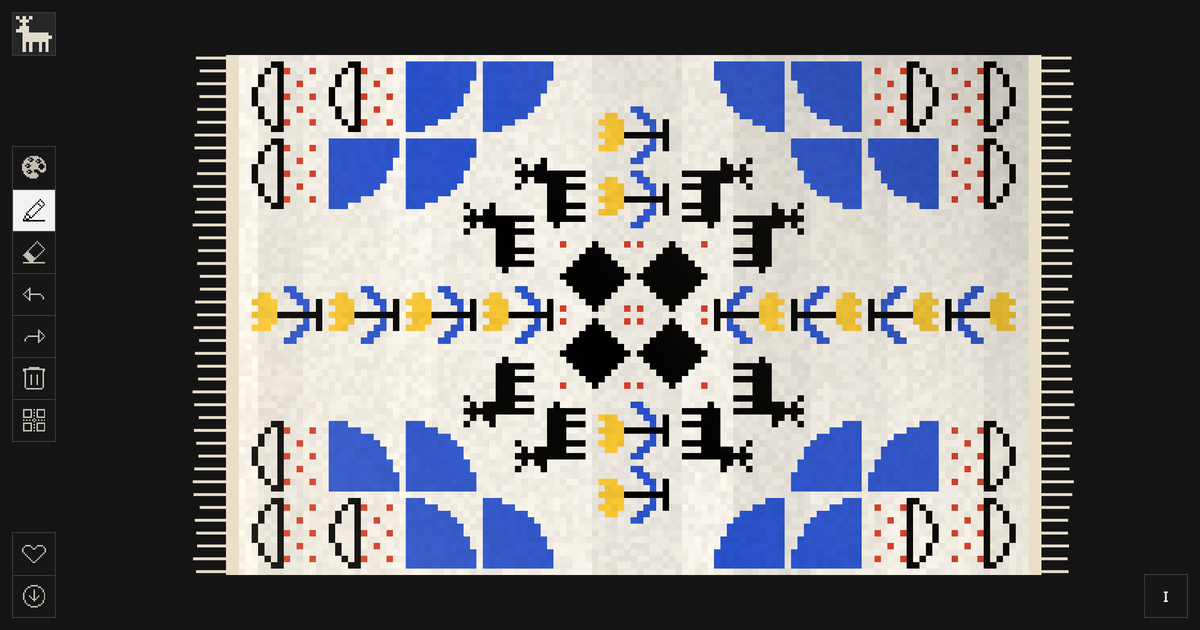
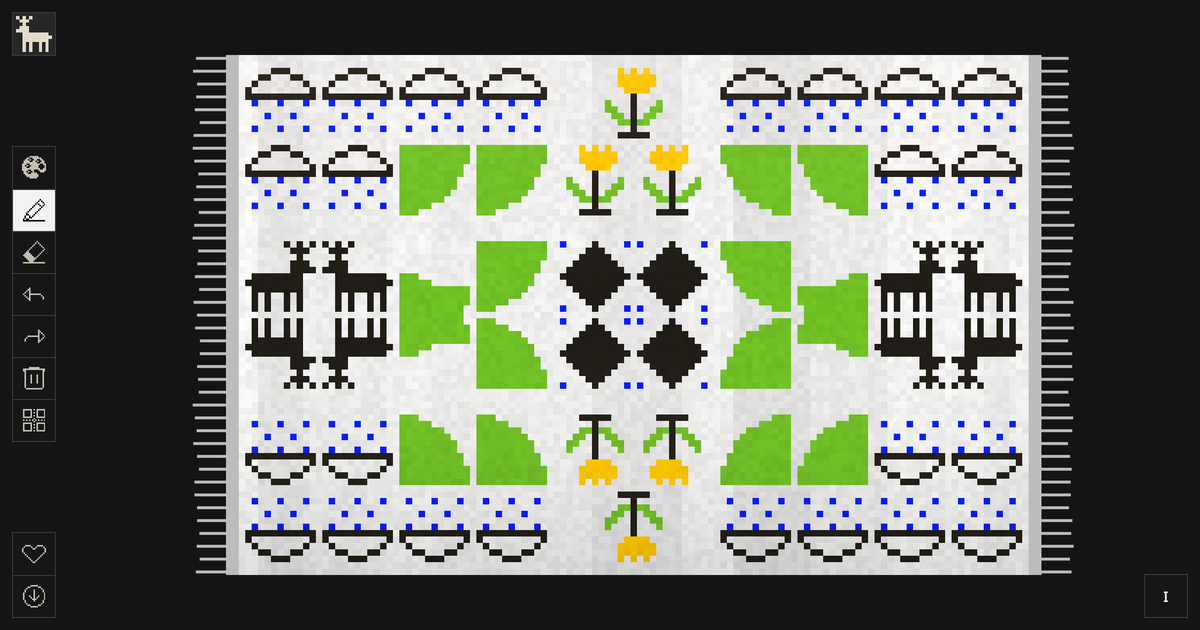
Add files via upload

diff --git a/style.css b/style.css
@@ -7,6 +7,8 @@
   --t-s: 14px;   /* small labels: swatch names, section captions, notes */
   --t-m: 16px;   /* body: panels, menus, tabs, info */
   --t-l: 19px;   /* button labels and headings */
+  --t-xl: 24px;  /* large: popup credit line */
+  --t-xxl: 30px; /* titles: popup heading */
   --bg: #121212;
   --panel: #161616;
   --line: #3a3a3a;
@@ -85,14 +87,43 @@ body { margin: 0; background: var(--bg); color: var(--fg); font-family: var(--mo
 .grp #bXform { display: none; }
 @media (hover: none), (pointer: coarse), (max-width: 700px) { .grp #bXform { display: grid; } }
 #railLib canvas { width: 100%; height: 100%; display: block; image-rendering: pixelated; }
+/* ---------- info: a stepped pixel panel centred on the carpet ---------- */
+.infoShade { position: absolute; inset: 0; z-index: 29; background: rgba(8, 8, 8, 0.62); }
+.infoShade[hidden] { display: none; }
+.info { position: absolute; z-index: 30; top: 50%; left: calc(var(--rail) + (100% - var(--rail)) / 2); transform: translate(-50%, -50%);
+  width: min(960px, calc(100% - var(--rail) - 2 * var(--gap))); --s: calc(var(--rb) / 2); }
+.info[hidden] { display: none; }
+.infoBox { position: relative; isolation: isolate; background: var(--line); color: var(--fg); padding: calc(var(--s) + 10px) calc(2 * var(--s) + 12px); text-align: center; max-height: inherit; overflow: auto;
+  clip-path: polygon(0 calc(4 * var(--s)), var(--s) calc(4 * var(--s)), var(--s) calc(3 * var(--s)), calc(2 * var(--s)) calc(3 * var(--s)), calc(2 * var(--s)) calc(2 * var(--s)), calc(3 * var(--s)) calc(2 * var(--s)), calc(3 * var(--s)) var(--s), calc(4 * var(--s)) var(--s), calc(4 * var(--s)) 0, calc(100% - 4 * var(--s)) 0, calc(100% - 4 * var(--s)) var(--s), calc(100% - 3 * var(--s)) var(--s), calc(100% - 3 * var(--s)) calc(2 * var(--s)), calc(100% - 2 * var(--s)) calc(2 * var(--s)), calc(100% - 2 * var(--s)) calc(3 * var(--s)), calc(100% - var(--s)) calc(3 * var(--s)), calc(100% - var(--s)) calc(4 * var(--s)), 100% calc(4 * var(--s)), 100% calc(100% - 4 * var(--s)), calc(100% - var(--s)) calc(100% - 4 * var(--s)), calc(100% - var(--s)) calc(100% - 3 * var(--s)), calc(100% - 2 * var(--s)) calc(100% - 3 * var(--s)), calc(100% - 2 * var(--s)) calc(100% - 2 * var(--s)), calc(100% - 3 * var(--s)) calc(100% - 2 * var(--s)), calc(100% - 3 * var(--s)) calc(100% - var(--s)), calc(100% - 4 * var(--s)) calc(100% - var(--s)), calc(100% - 4 * var(--s)) 100%, calc(4 * var(--s)) 100%, calc(4 * var(--s)) calc(100% - var(--s)), calc(3 * var(--s)) calc(100% - var(--s)), calc(3 * var(--s)) calc(100% - 2 * var(--s)), calc(2 * var(--s)) calc(100% - 2 * var(--s)), calc(2 * var(--s)) calc(100% - 3 * var(--s)), var(--s) calc(100% - 3 * var(--s)), var(--s) calc(100% - 4 * var(--s)), 0 calc(100% - 4 * var(--s))); }
+/* the border: the box itself is border-coloured; a copy inset 1px on every edge and step carries the dark fill */
+.infoBox::before { content: ""; position: absolute; inset: 0; z-index: -1; background: var(--panel); clip-path: polygon(1px calc(4 * var(--s) + 1px), calc(var(--s) + 1px) calc(4 * var(--s) + 1px), calc(var(--s) + 1px) calc(3 * var(--s) + 1px), calc(2 * var(--s) + 1px) calc(3 * var(--s) + 1px), calc(2 * var(--s) + 1px) calc(2 * var(--s) + 1px), calc(3 * var(--s) + 1px) calc(2 * var(--s) + 1px), calc(3 * var(--s) + 1px) calc(var(--s) + 1px), calc(4 * var(--s) + 1px) calc(var(--s) + 1px), calc(4 * var(--s) + 1px) 1px, calc(100% - 4 * var(--s) - 1px) 1px, calc(100% - 4 * var(--s) - 1px) calc(var(--s) + 1px), calc(100% - 3 * var(--s) - 1px) calc(var(--s) + 1px), calc(100% - 3 * var(--s) - 1px) calc(2 * var(--s) + 1px), calc(100% - 2 * var(--s) - 1px) calc(2 * var(--s) + 1px), calc(100% - 2 * var(--s) - 1px) calc(3 * var(--s) + 1px), calc(100% - var(--s) - 1px) calc(3 * var(--s) + 1px), calc(100% - var(--s) - 1px) calc(4 * var(--s) + 1px), calc(100% - 1px) calc(4 * var(--s) + 1px), calc(100% - 1px) calc(100% - 4 * var(--s) - 1px), calc(100% - var(--s) - 1px) calc(100% - 4 * var(--s) - 1px), calc(100% - var(--s) - 1px) calc(100% - 3 * var(--s) - 1px), calc(100% - 2 * var(--s) - 1px) calc(100% - 3 * var(--s) - 1px), calc(100% - 2 * var(--s) - 1px) calc(100% - 2 * var(--s) - 1px), calc(100% - 3 * var(--s) - 1px) calc(100% - 2 * var(--s) - 1px), calc(100% - 3 * var(--s) - 1px) calc(100% - var(--s) - 1px), calc(100% - 4 * var(--s) - 1px) calc(100% - var(--s) - 1px), calc(100% - 4 * var(--s) - 1px) calc(100% - 1px), calc(4 * var(--s) + 1px) calc(100% - 1px), calc(4 * var(--s) + 1px) calc(100% - var(--s) - 1px), calc(3 * var(--s) + 1px) calc(100% - var(--s) - 1px), calc(3 * var(--s) + 1px) calc(100% - 2 * var(--s) - 1px), calc(2 * var(--s) + 1px) calc(100% - 2 * var(--s) - 1px), calc(2 * var(--s) + 1px) calc(100% - 3 * var(--s) - 1px), calc(var(--s) + 1px) calc(100% - 3 * var(--s) - 1px), calc(var(--s) + 1px) calc(100% - 4 * var(--s) - 1px), 1px calc(100% - 4 * var(--s) - 1px)); }
+.infoTitle { margin: 0 0 calc(var(--s) + 14px); line-height: 1; font-size: var(--t-xxl); font-weight: 400; letter-spacing: 0.06em; text-transform: uppercase; color: var(--fg); }
+.info dl { margin: 0 auto; width: max-content; max-width: 100%; display: grid; grid-template-columns: auto auto auto auto; gap: 8px 30px; font-size: var(--t-xl); text-align: left; }
+.info dt { color: var(--fg); white-space: nowrap; }
+.info dd { margin: 0 14px 0 0; color: var(--mute); white-space: nowrap; }
+.infoBy { margin: calc(var(--s) + 20px) 0 0; line-height: 1; font-size: var(--t-xl); color: var(--fg); }
+.infoBy a { color: inherit; text-decoration: underline; text-underline-offset: 3px; text-decoration-color: var(--mute); }
+.infoBy span, .infoBy a { white-space: nowrap; }
+.infoBy a:hover { text-decoration-color: var(--fg); }
+/* the close button sits in the cut-away top-right corner, above the staircase: each step is half a button */
+.infoClose { position: absolute; top: 0; right: 0; width: var(--rb); height: var(--rb); display: grid; place-items: center; padding: 0; border: 1px solid var(--line); background: var(--panel); color: var(--icon, var(--fg)); cursor: pointer; }
+.infoClose:hover { background: var(--fg); color: var(--on-fg); }
+.infoClose svg { width: 22.5px; height: 22.5px; }
+@media (max-width: 700px) {
+  /* phones: the same margin on all four sides; content centred in the space */
+  .info { position: fixed; inset: 10vw; width: auto; transform: none; display: flex; flex-direction: column; }
+  .info[hidden] { display: none; }
+  .infoBox { flex: 1; display: flex; flex-direction: column; justify-content: safe center; padding-left: calc(var(--s) + 8px); padding-right: calc(var(--s) + 8px); }
+  .infoTitle { font-size: var(--t-xxl); }
+  .info dl { font-size: var(--t-l); }
+  .info dd { white-space: nowrap; }
+  .info dl { grid-template-columns: auto auto; gap: 8px 16px; }
+  .info dd { margin: 0; }
+  .infoClose svg { width: 20px; height: 20px; }
+}
 .infoBtn { position: absolute; right: var(--gap); bottom: var(--gap); width: var(--rb); height: var(--rb); display: grid; place-items: center; padding: 0; background: var(--panel); color: var(--fg); border: 1px solid var(--line); cursor: pointer; z-index: 6; }
 .infoBtn .i { font-family: var(--mono); font-size: var(--t-l); letter-spacing: 0.02em; line-height: 1; }
 .infoBtn:hover, .infoBtn[aria-expanded="true"] { color: var(--fg); border-color: var(--fg); }
-.info { position: absolute; right: var(--gap); bottom: calc(var(--rb) + 2 * var(--gap)); width: 250px; background: var(--panel); border: 1px solid var(--line); padding: 12px 14px; z-index: 7; }
-.infoTitle { margin: 0 0 12px; padding-bottom: 10px; border-bottom: 1px solid var(--line); font-size: var(--t-l); font-weight: 700; letter-spacing: 0.12em; text-transform: uppercase; color: var(--fg); }
-.info dl { margin: 0; display: grid; grid-template-columns: auto 1fr; gap: 7px 14px; font-size: var(--t-m); }
-.info dt { color: var(--fg); white-space: nowrap; }
-.info dd { margin: 0; color: var(--mute); }
 .corner.qm { position: fixed; right: auto; bottom: auto; box-shadow: 0 8px 28px rgba(0,0,0,.5); z-index: 30; }
 .corner { position: absolute; right: 12px; bottom: 12px; display: flex; background: var(--panel); border: 1px solid var(--line); z-index: 6; }
 .corner .rb { width: 38px; height: 38px; border-bottom: 0; }

diff --git a/index.html b/index.html
@@ -11,7 +11,7 @@
 <meta property="og:type" content="website">
 <meta property="og:title" content="Crafty Carpets">
 <meta property="og:description" content="Weave your own rug: pick motifs, paint them onto a knotted grid, mirror, rotate, recolour and export.">
-<meta property="og:image" content="https://dinefining.github.io/crafty-carpets/og.png?v=5">
+<meta property="og:image" content="https://dinefining.github.io/crafty-carpets/og.png?v=6">
 <meta name="twitter:card" content="summary_large_image">
 <link rel="preconnect" href="https://fonts.googleapis.com">
 <link rel="preconnect" href="https://fonts.gstatic.com" crossorigin>
@@ -28,9 +28,9 @@
       <button class="rb" type="button" data-tool="erase" aria-label="Erase" title="Erase"><svg width="15" height="15" viewBox="0 0 15 15" fill="currentColor" shape-rendering="crispEdges" aria-hidden="true"><path d="M9 0h1v1h-1zM8 1h1v1h-1zM10 1h1v1h-1zM7 2h1v1h-1zM11 2h1v1h-1zM6 3h1v1h-1zM12 3h1v1h-1zM5 4h1v1h-1zM13 4h1v1h-1zM4 5h1v1h-1zM14 5h1v1h-1zM3 6h1v1h-1zM13 6h1v1h-1zM2 7h2v1h-2zM12 7h1v1h-1zM1 8h4v1h-4zM11 8h1v1h-1zM0 9h6v1h-6zM10 9h1v1h-1zM1 10h6v1h-6zM9 10h1v1h-1zM2 11h7v1h-7zM3 12h5v1h-5zM4 13h3v1h-3zM0 14h15v1h-15z"/></svg></button>
       <button class="rb" type="button" id="bUndo" aria-label="Undo" title="Undo (⌘Z)"><svg width="15" height="15" viewBox="0 0 15 15" fill="currentColor" shape-rendering="crispEdges" aria-hidden="true"><path d="M4 3h1v1h-1zM3 4h2v1h-2zM2 5h1v1h-1zM4 5h1v1h-1zM1 6h1v1h-1zM4 6h1v1h-1zM0 7h1v1h-1zM4 7h8v1h-8zM1 8h1v1h-1zM4 8h1v1h-1zM12 8h1v1h-1zM2 9h1v1h-1zM4 9h1v1h-1zM13 9h1v1h-1zM3 10h2v1h-2zM13 10h1v1h-1zM4 11h1v1h-1z"/></svg></button>
       <button class="rb" type="button" id="bRedo" aria-label="Redo" title="Redo (⇧⌘Z)"><svg width="15" height="15" viewBox="0 0 15 15" fill="currentColor" shape-rendering="crispEdges" aria-hidden="true"><path d="M10 3h1v1h-1zM10 4h2v1h-2zM10 5h1v1h-1zM12 5h1v1h-1zM10 6h1v1h-1zM13 6h1v1h-1zM3 7h8v1h-8zM14 7h1v1h-1zM2 8h1v1h-1zM10 8h1v1h-1zM13 8h1v1h-1zM1 9h1v1h-1zM10 9h1v1h-1zM12 9h1v1h-1zM1 10h1v1h-1zM10 10h2v1h-2zM10 11h1v1h-1z"/></svg></button>
-      <button class="rb" type="button" id="bClear" aria-label="Clear all" title="Clear all"><svg width="15" height="15" viewBox="0 0 15 15" fill="currentColor" shape-rendering="crispEdges" aria-hidden="true"><path d="M4 0h7v1h-7zM0 1h15v1h-15zM0 2h2v1h-2zM13 2h2v1h-2zM1 3h1v1h-1zM13 3h1v1h-1zM1 4h1v1h-1zM13 4h1v1h-1zM1 5h1v1h-1zM5 5h1v1h-1zM9 5h1v1h-1zM13 5h1v1h-1zM1 6h1v1h-1zM5 6h1v1h-1zM9 6h1v1h-1zM13 6h1v1h-1zM1 7h1v1h-1zM5 7h1v1h-1zM9 7h1v1h-1zM13 7h1v1h-1zM1 8h1v1h-1zM5 8h1v1h-1zM9 8h1v1h-1zM13 8h1v1h-1zM1 9h1v1h-1zM5 9h1v1h-1zM9 9h1v1h-1zM13 9h1v1h-1zM1 10h1v1h-1zM5 10h1v1h-1zM9 10h1v1h-1zM13 10h1v1h-1zM1 11h1v1h-1zM5 11h1v1h-1zM9 11h1v1h-1zM13 11h1v1h-1zM1 12h1v1h-1zM13 12h1v1h-1zM1 13h1v1h-1zM13 13h1v1h-1zM2 14h11v1h-11z"/></svg></button>
+      <button class="rb" type="button" id="bClear" aria-label="Clear all" title="Clear all"><svg width="15" height="15" viewBox="0 0 15 15" fill="currentColor" shape-rendering="crispEdges" aria-hidden="true"><path d="M4 0h7v1h-7zM0 1h15v1h-15zM0 2h2v1h-2zM13 2h2v1h-2zM1 3h1v1h-1zM13 3h1v1h-1zM1 4h1v1h-1zM13 4h1v1h-1zM1 5h1v1h-1zM5 5h1v1h-1zM9 5h1v1h-1zM13 5h1v1h-1zM1 6h1v1h-1zM5 6h1v1h-1zM9 6h1v1h-1zM13 6h1v1h-1zM1 7h1v1h-1zM5 7h1v1h-1zM9 7h1v1h-1zM13 7h1v1h-1zM1 8h1v1h-1zM5 8h1v1h-1zM9 8h1v1h-1zM13 8h1v1h-1zM1 9h1v1h-1zM5 9h1v1h-1zM9 9h1v1h-1zM13 9h1v1h-1zM1 10h1v1h-1zM5 10h1v1h-1zM9 10h1v1h-1zM13 10h1v1h-1zM1 11h1v1h-1zM13 11h1v1h-1zM1 12h1v1h-1zM13 12h1v1h-1zM1 13h1v1h-1zM13 13h1v1h-1zM2 14h11v1h-11z"/></svg></button>
       <button class="rb" type="button" id="mirrorBtn" aria-label="Mirror" title="Mirror"><svg width="15" height="15" viewBox="0 0 15 15" fill="currentColor" shape-rendering="crispEdges" aria-hidden="true" id="mirrorIcon"></svg></button>
-      <button class="rb" type="button" id="bXform" aria-pressed="false" aria-label="Rotate and size the motif" title="Rotate and size"><svg width="15" height="15" viewBox="0 0 15 15" fill="currentColor" shape-rendering="crispEdges" aria-hidden="true"><path d="M0 0h3v1h-3zM12 0h3v1h-3zM0 1h1v1h-1zM2 1h11v1h-11zM14 1h1v1h-1zM0 2h3v1h-3zM12 2h3v1h-3zM1 3h1v1h-1zM13 3h1v1h-1zM1 4h1v1h-1zM13 4h1v1h-1zM1 5h1v1h-1zM13 5h1v1h-1zM1 6h1v1h-1zM13 6h1v1h-1zM1 7h1v1h-1zM13 7h1v1h-1zM1 8h1v1h-1zM13 8h1v1h-1zM1 9h1v1h-1zM13 9h1v1h-1zM1 10h1v1h-1zM13 10h1v1h-1zM1 11h1v1h-1zM13 11h1v1h-1zM0 12h3v1h-3zM12 12h3v1h-3zM0 13h1v1h-1zM2 13h11v1h-11zM14 13h1v1h-1zM0 14h3v1h-3zM12 14h3v1h-3z"/></svg></button>
+      <button class="rb" type="button" id="bXform" aria-pressed="false" aria-label="Rotate and size the motif" title="Rotate and size"><svg width="15" height="15" viewBox="0 0 15 15" fill="currentColor" shape-rendering="crispEdges" aria-hidden="true"><path d="M0 0h3v1h-3zM12 0h3v1h-3zM0 1h1v1h-1zM2 1h1v1h-1zM12 1h1v1h-1zM14 1h1v1h-1zM0 2h15v1h-15zM2 3h1v1h-1zM12 3h1v1h-1zM2 4h1v1h-1zM12 4h1v1h-1zM2 5h1v1h-1zM12 5h1v1h-1zM2 6h1v1h-1zM12 6h1v1h-1zM2 7h1v1h-1zM12 7h1v1h-1zM2 8h1v1h-1zM12 8h1v1h-1zM2 9h1v1h-1zM12 9h1v1h-1zM2 10h1v1h-1zM12 10h1v1h-1zM2 11h1v1h-1zM12 11h1v1h-1zM0 12h15v1h-15zM0 13h1v1h-1zM2 13h1v1h-1zM12 13h1v1h-1zM14 13h1v1h-1zM0 14h3v1h-3zM12 14h3v1h-3z"/></svg></button>
     </div>
     <div class="grp" id="gOut" role="group" aria-label="Save and download">
       <button class="rb" type="button" id="bSaved" aria-pressed="false" aria-label="Your collection — save this rug or open a saved one" title="Collection · ⌘S saves"><svg class="h0" width="16" height="16" viewBox="0 0 16 16" fill="currentColor" shape-rendering="crispEdges" aria-hidden="true"><path d="M2 2h4v1h-4zM10 2h4v1h-4zM1 3h1v1h-1zM6 3h1v1h-1zM9 3h1v1h-1zM14 3h1v1h-1zM0 4h1v1h-1zM7 4h2v1h-2zM15 4h1v1h-1zM0 5h1v1h-1zM15 5h1v1h-1zM0 6h1v1h-1zM15 6h1v1h-1zM1 7h1v1h-1zM14 7h1v1h-1zM2 8h1v1h-1zM13 8h1v1h-1zM3 9h1v1h-1zM12 9h1v1h-1zM4 10h1v1h-1zM11 10h1v1h-1zM5 11h1v1h-1zM10 11h1v1h-1zM6 12h1v1h-1zM9 12h1v1h-1zM7 13h2v1h-2z"/></svg><svg class="h1" width="16" height="16" viewBox="0 0 16 16" fill="currentColor" shape-rendering="crispEdges" aria-hidden="true"><path d="M2 2h4v1h-4zM10 2h4v1h-4zM1 3h6v1h-6zM9 3h6v1h-6zM0 4h2v1h-2zM4 4h12v1h-12zM0 5h1v1h-1zM2 5h14v1h-14zM0 6h16v1h-16zM1 7h14v1h-14zM2 8h12v1h-12zM3 9h10v1h-10zM4 10h8v1h-8zM5 11h6v1h-6zM6 12h4v1h-4zM7 13h2v1h-2z"/></svg></button>
@@ -57,9 +57,11 @@
   <section class="view" id="view" aria-label="Rug canvas">
     <canvas id="cv" aria-label="Rug: click to paint the selected motif"></canvas>
     <button class="infoBtn" type="button" id="infoBtn" aria-label="How it works" aria-expanded="false" title="How it works"><span class="i">I</span></button>
+    <div class="infoShade" id="infoShade" hidden></div>
     <div class="info" id="infoPop" hidden role="dialog" aria-label="Crafty Carpets — how it works">
-      <h1 class="infoTitle">Crafty Carpets</h1>
-      <dl>
+      <div class="infoBox">
+        <h1 class="infoTitle">Crafty Carpets</h1>
+        <dl>
         <dt>Click / drag</dt><dd>Paint motif</dd>
         <dt>R</dt><dd>Rotate right</dd>
         <dt>T</dt><dd>Rotate left</dd>
@@ -75,6 +77,9 @@
         <dt>Pinch</dt><dd>Zoom</dd>
         <dt>Space + drag</dt><dd>Pan</dd>
       </dl>
+        <p class="infoBy"><span>A <a href="https://ravipopat.info/maybe-machines" target="_blank" rel="noopener">Maybe Machine</a></span> <span>by <a href="https://ravipopat.info" target="_blank" rel="noopener">Ravi Popat</a></span></p>
+      </div>
+      <button class="infoClose" type="button" id="infoClose" aria-label="Close"><svg width="15" height="15" viewBox="0 0 15 15" fill="currentColor" shape-rendering="crispEdges" aria-hidden="true"><path d="M1 1h1v1h-1zM13 1h1v1h-1zM2 2h1v1h-1zM12 2h1v1h-1zM3 3h1v1h-1zM11 3h1v1h-1zM4 4h1v1h-1zM10 4h1v1h-1zM5 5h1v1h-1zM9 5h1v1h-1zM6 6h1v1h-1zM8 6h1v1h-1zM7 7h1v1h-1zM6 8h1v1h-1zM8 8h1v1h-1zM5 9h1v1h-1zM9 9h1v1h-1zM4 10h1v1h-1zM10 10h1v1h-1zM3 11h1v1h-1zM11 11h1v1h-1zM2 12h1v1h-1zM12 12h1v1h-1zM1 13h1v1h-1zM13 13h1v1h-1z"/></svg></button>
     </div>
     <div hidden><button id="zoomBtn"></button></div>
     <div hidden><span id="railTile"></span><span id="railRug"></span><button id="tileBtn"></button><button id="rugBtn"></button><button id="fitBtn"></button></div>

diff --git a/app.js b/app.js
@@ -1086,10 +1086,13 @@
     if (!$('infoPop').hidden && !$('infoPop').contains(e.target) && !$('infoBtn').contains(e.target)) closeInfo();
     // the collection panel closes on any click outside it
     if ($('side').dataset.show === 'saved' && !$('collection').contains(e.target) && !$('bSaved').contains(e.target)) setSide('saved');
+    // the motif library closes on any click outside it — and that click still does its job (pick a tool, paint…)
+    if ($('side').dataset.show === 'lib' && !$('library').contains(e.target) && !$('railLib').contains(e.target)) setSide('lib');
   }, true);
   // info popup
-  function closeInfo() { $('infoPop').hidden = true; $('infoBtn').setAttribute('aria-expanded', 'false'); }
-  $('infoBtn').addEventListener('click', () => { const open = $('infoPop').hidden; $('infoPop').hidden = !open; $('infoBtn').setAttribute('aria-expanded', String(open)); });
+  function closeInfo() { $('infoPop').hidden = true; $('infoShade').hidden = true; $('infoBtn').setAttribute('aria-expanded', 'false'); }
+  $('infoClose').addEventListener('click', closeInfo);
+  $('infoBtn').addEventListener('click', () => { const open = $('infoPop').hidden; $('infoPop').hidden = !open; $('infoShade').hidden = !open; $('infoBtn').setAttribute('aria-expanded', String(open)); });
 
   // ---------- start ----------
   function resetRug(animate) {
